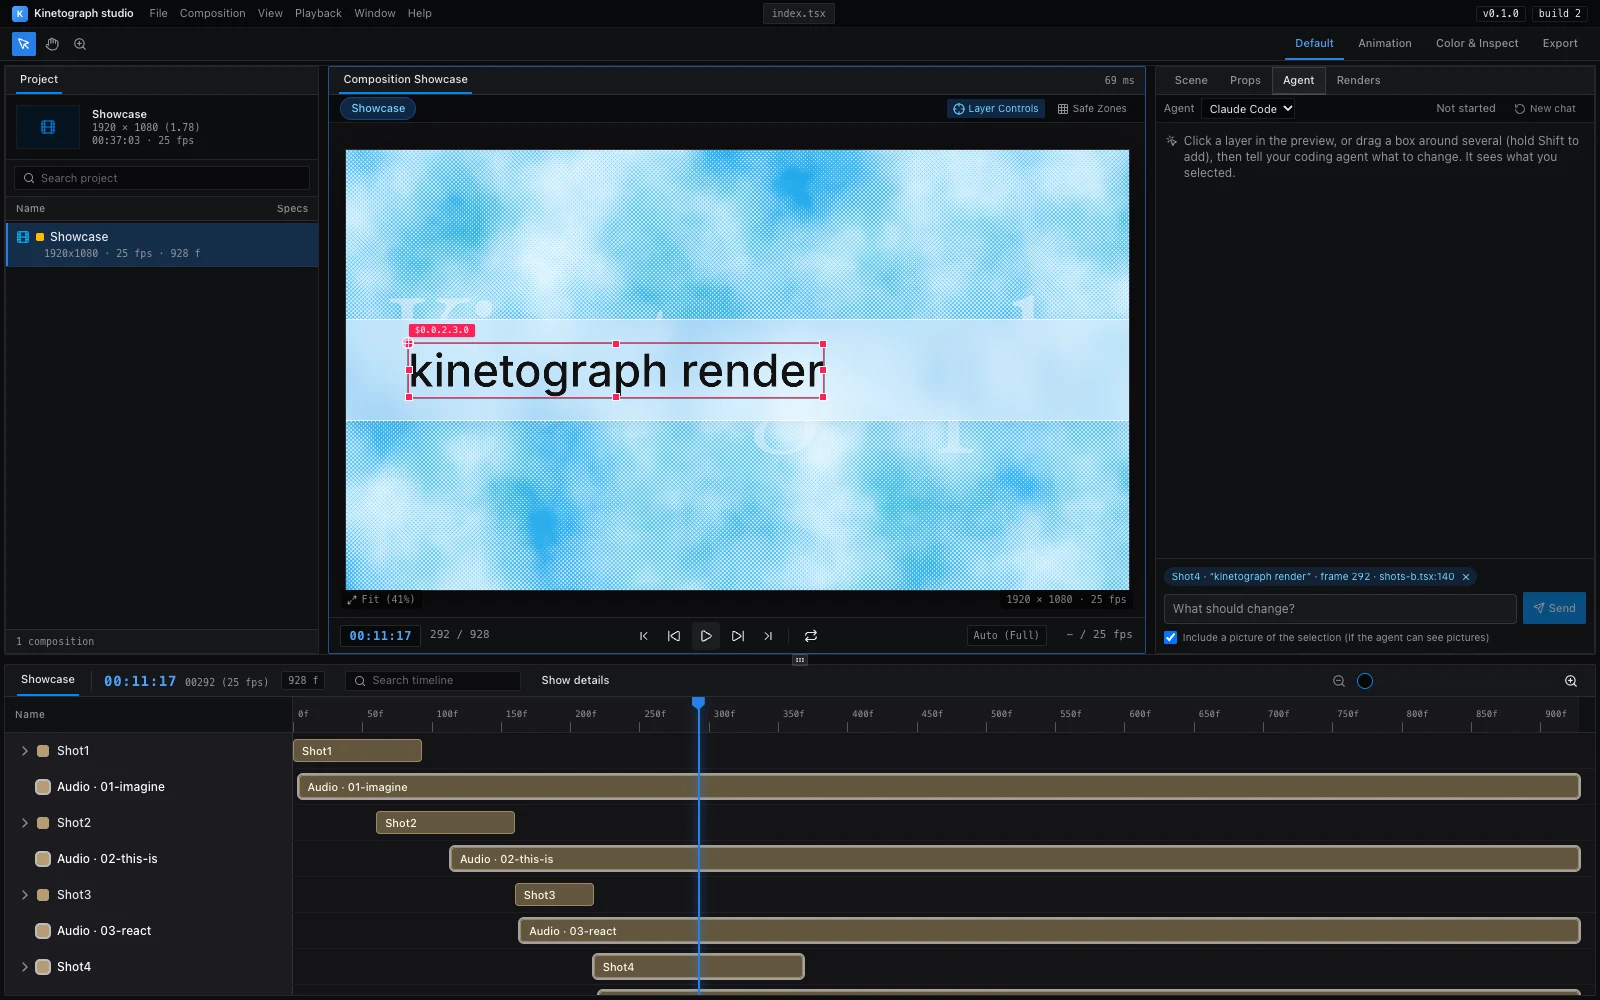
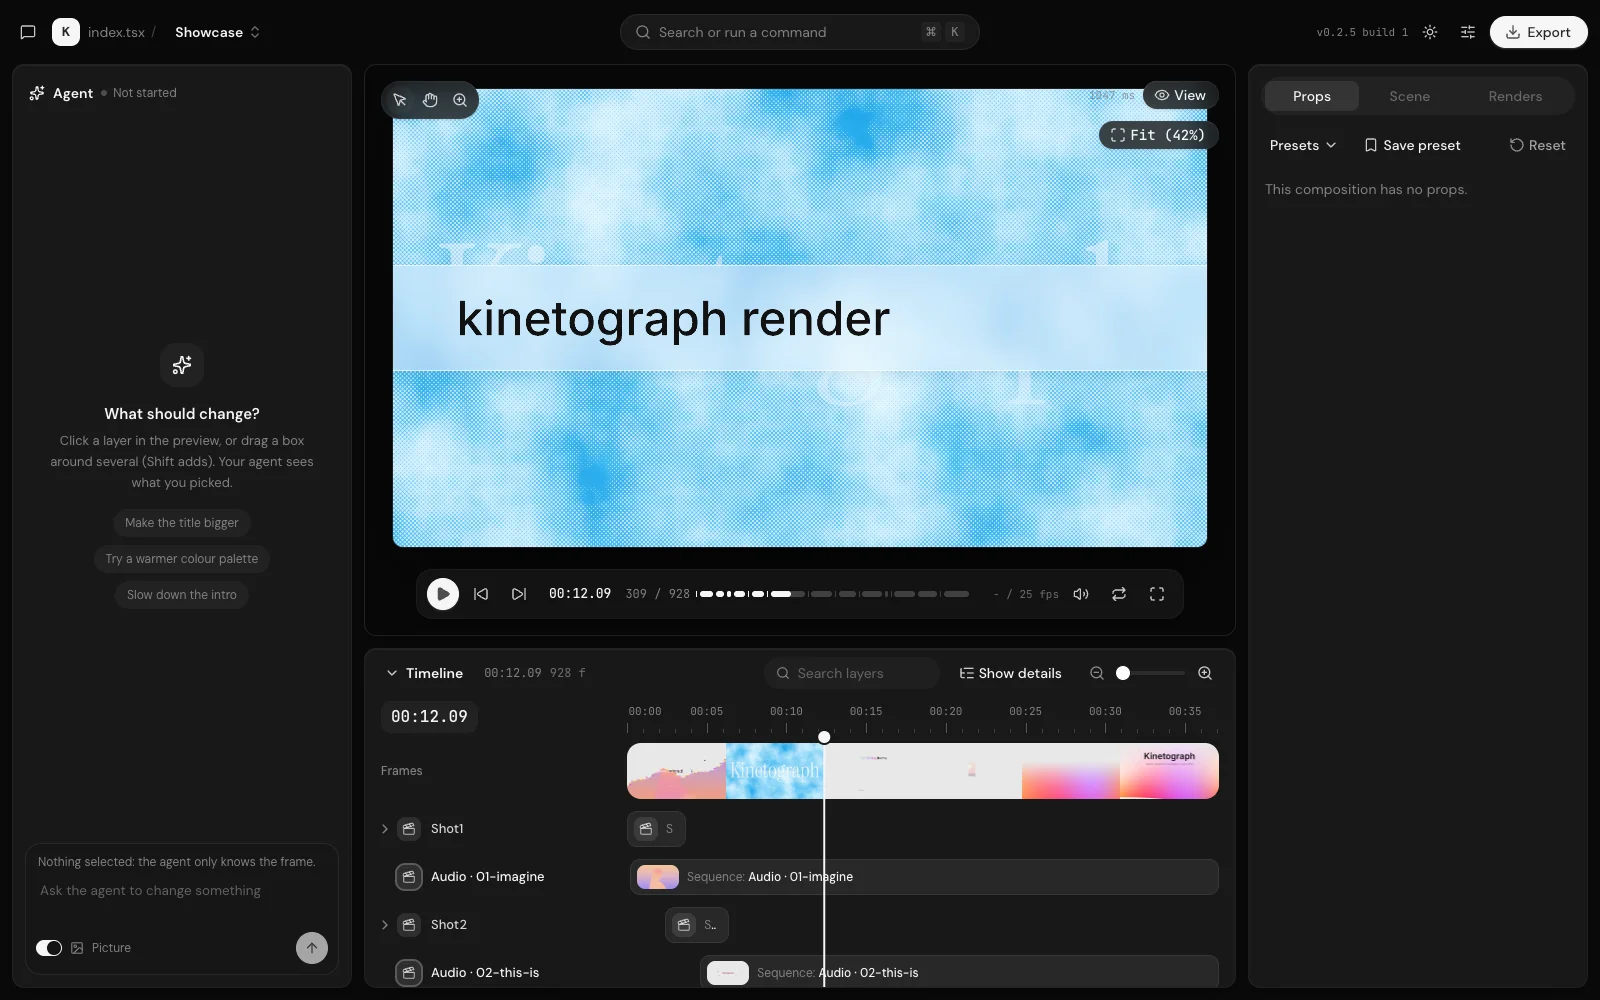
docs(readme): screenshot of the redesigned Studio

diff --git a/README.md b/README.md
@@ -77,7 +77,7 @@ three runs with `--concurrency 4` on the same Apple M4.
 ## The editor
 
 <p align="center">
-  <img src="docs/readme/studio.webp" alt="Kinetograph Studio: a top bar with the composition switcher and the command menu, the agent chat on the left, a large preview with a floating transport, the timeline below with coloured clips, film strips and waveforms, and the inspector on the right showing the Props tab with a plugin card" width="100%">
+  <img src="docs/readme/studio.webp" alt="Kinetograph Studio: a top bar with the composition switcher and the command menu, the agent chat on the left, a large preview with a floating transport, the inspector on the right on the Props tab, and the timeline below with a strip of frames and a row per layer" width="100%">
 </p>
 
 `kinetograph studio src/index.tsx` opens a local editor for a project. The engine draws its preview frames, so what you
